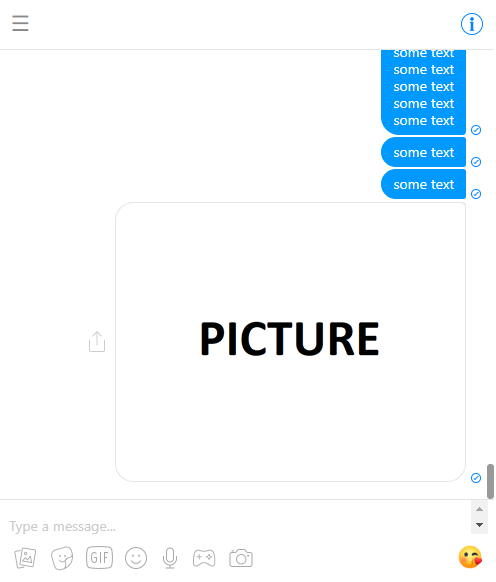
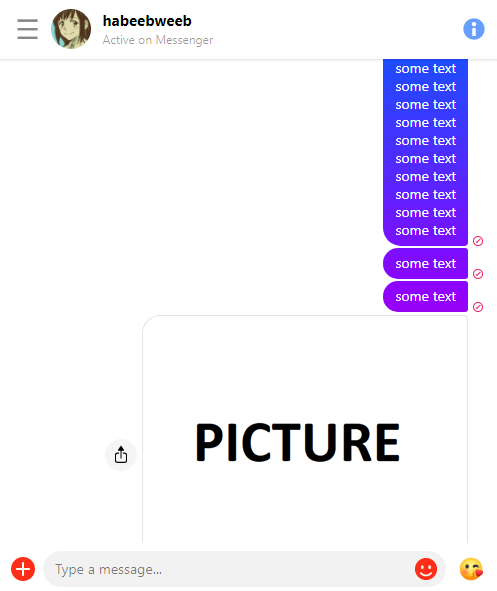
Update for new messenger version

diff --git a/ToggleMessengerSidebar.user.js b/ToggleMessengerSidebar.user.js
@@ -2,9 +2,9 @@
 // @name         Collapsible Facebook Messenger Sidebar
 // @namespace    https://github.com/habeebweeb
 // @description  Adds a button to collapse the left sidebar
-// @version      2.2.0
+// @version      2.3.0
 // @author       habeebweeb
-// @icon         https://static.xx.fbcdn.net/rsrc.php/y7/r/O6n_HQxozp9.ico
+// @icon         https://static.xx.fbcdn.net/rsrc.php/yg/r/4_vfHVmZ5XD.ico
 // @license      GNU GPLv3; https://www.gnu.org/licenses/gpl-3.0.txt
 // @include      https://www.messenger.com/*
 // @include      https://www.facebook.com/messages/t/*
@@ -24,6 +24,7 @@
     left: '_1enh',
     right: '_4_j5',
     conversationContainer: '_1t2u',
+    userInfoContainer: '_5743 _6y4y',
     hidden: 'hidden_elem'
   }
 
@@ -53,8 +54,8 @@
   }
 
   function addButton (sidebarButton) {
-    const header = document.getElementsByClassName(classes.header)[0]
-    header.appendChild(sidebarButton.button)
+    const userInfoContainer = document.getElementsByClassName(classes.userInfoContainer)[0]
+    userInfoContainer.insertBefore(sidebarButton.button, userInfoContainer.firstChild)
   }
 
   function Button (state) {
@@ -63,15 +64,11 @@
     this.button = (() => {
       const button = document.createElement('span')
       button.innerText = '☰'
-      button.style.left = '11px'
-      button.style.bottom = '13px'
-      button.style.width = '25px'
-      button.style.height = '25px'
-      button.style.position = 'absolute'
-      button.style['font-size'] = '1.6em'
-      button.style['line-height'] = '1em'
       button.style.cursor = 'pointer'
       button.style.color = '#888'
+      button.style.fontSize = '2em'
+      button.style.paddingRight = '0.3em'
+      button.style.paddingBottom = '0.1em'
       return button
     })()
     this.manageSidebar = function () {

diff --git a/README.md b/README.md
@@ -1,4 +1,4 @@
-# Toggle-Messenger-Sidebar
+# Toggle Messenger Sidebar
 
 Add a button to toggle Facebook Messenger's left sidebar
 
